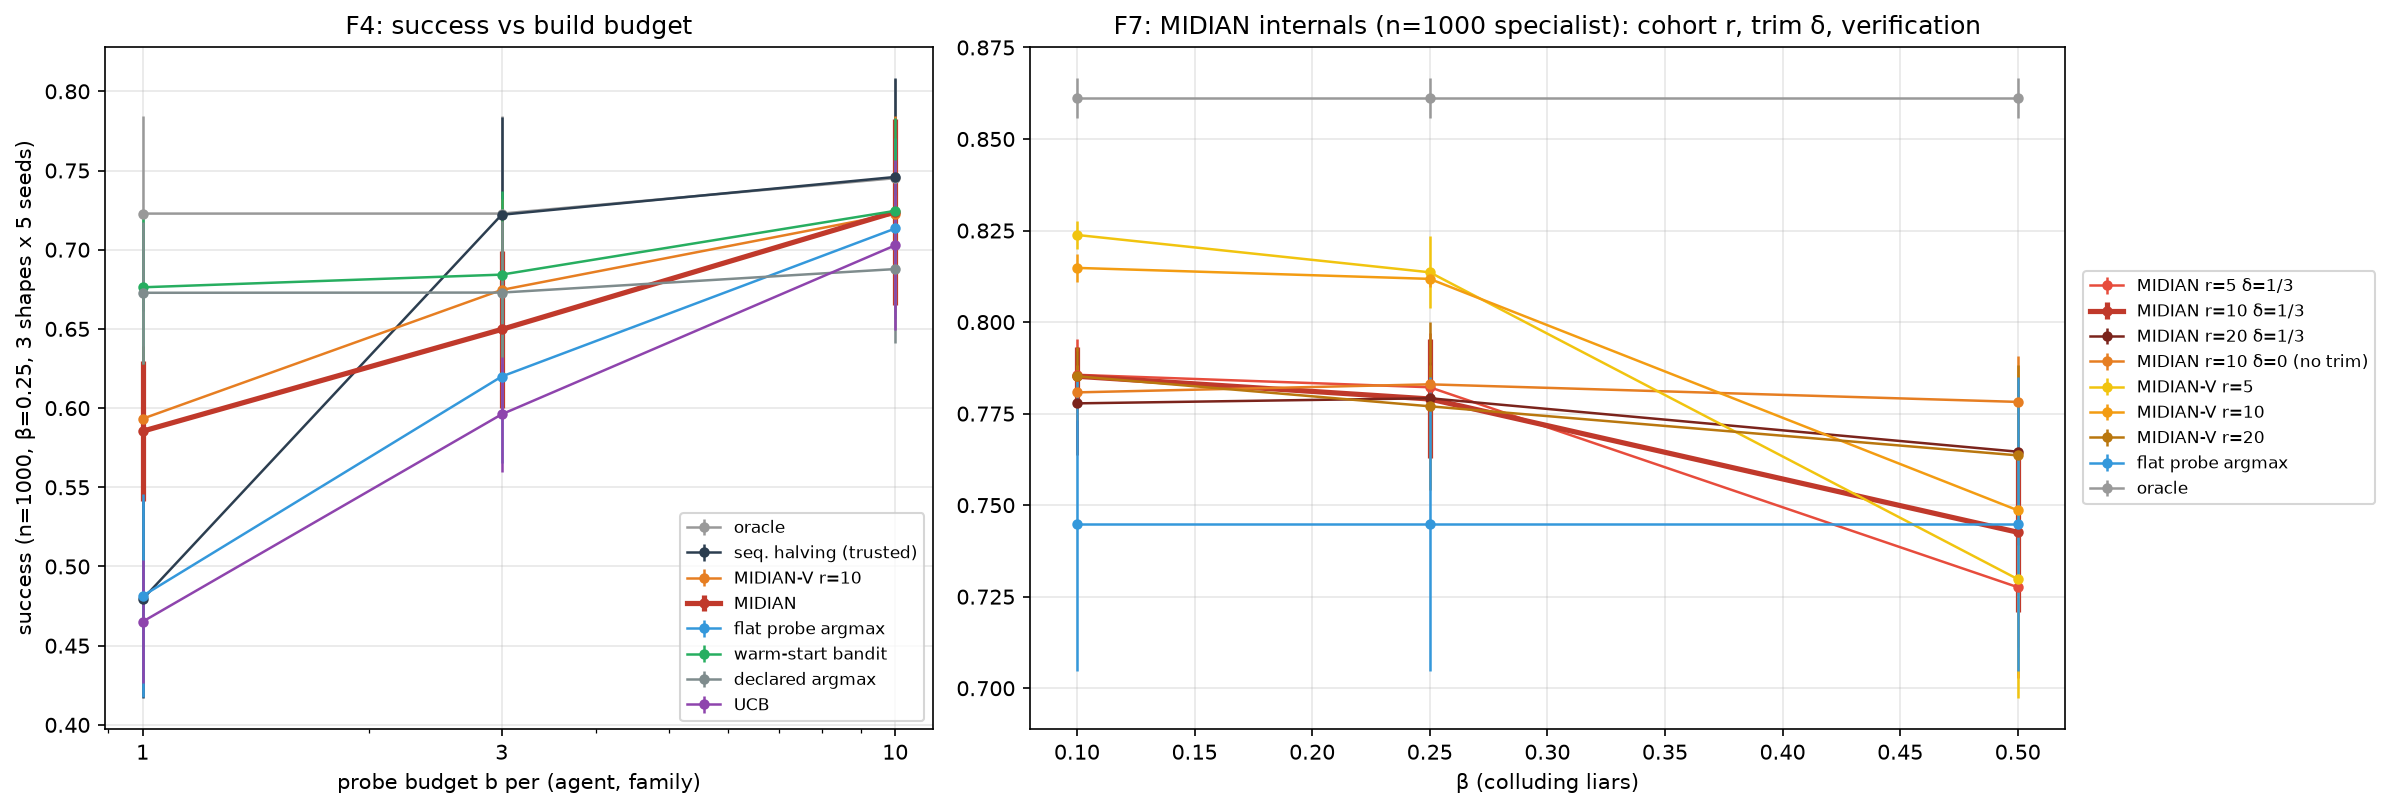
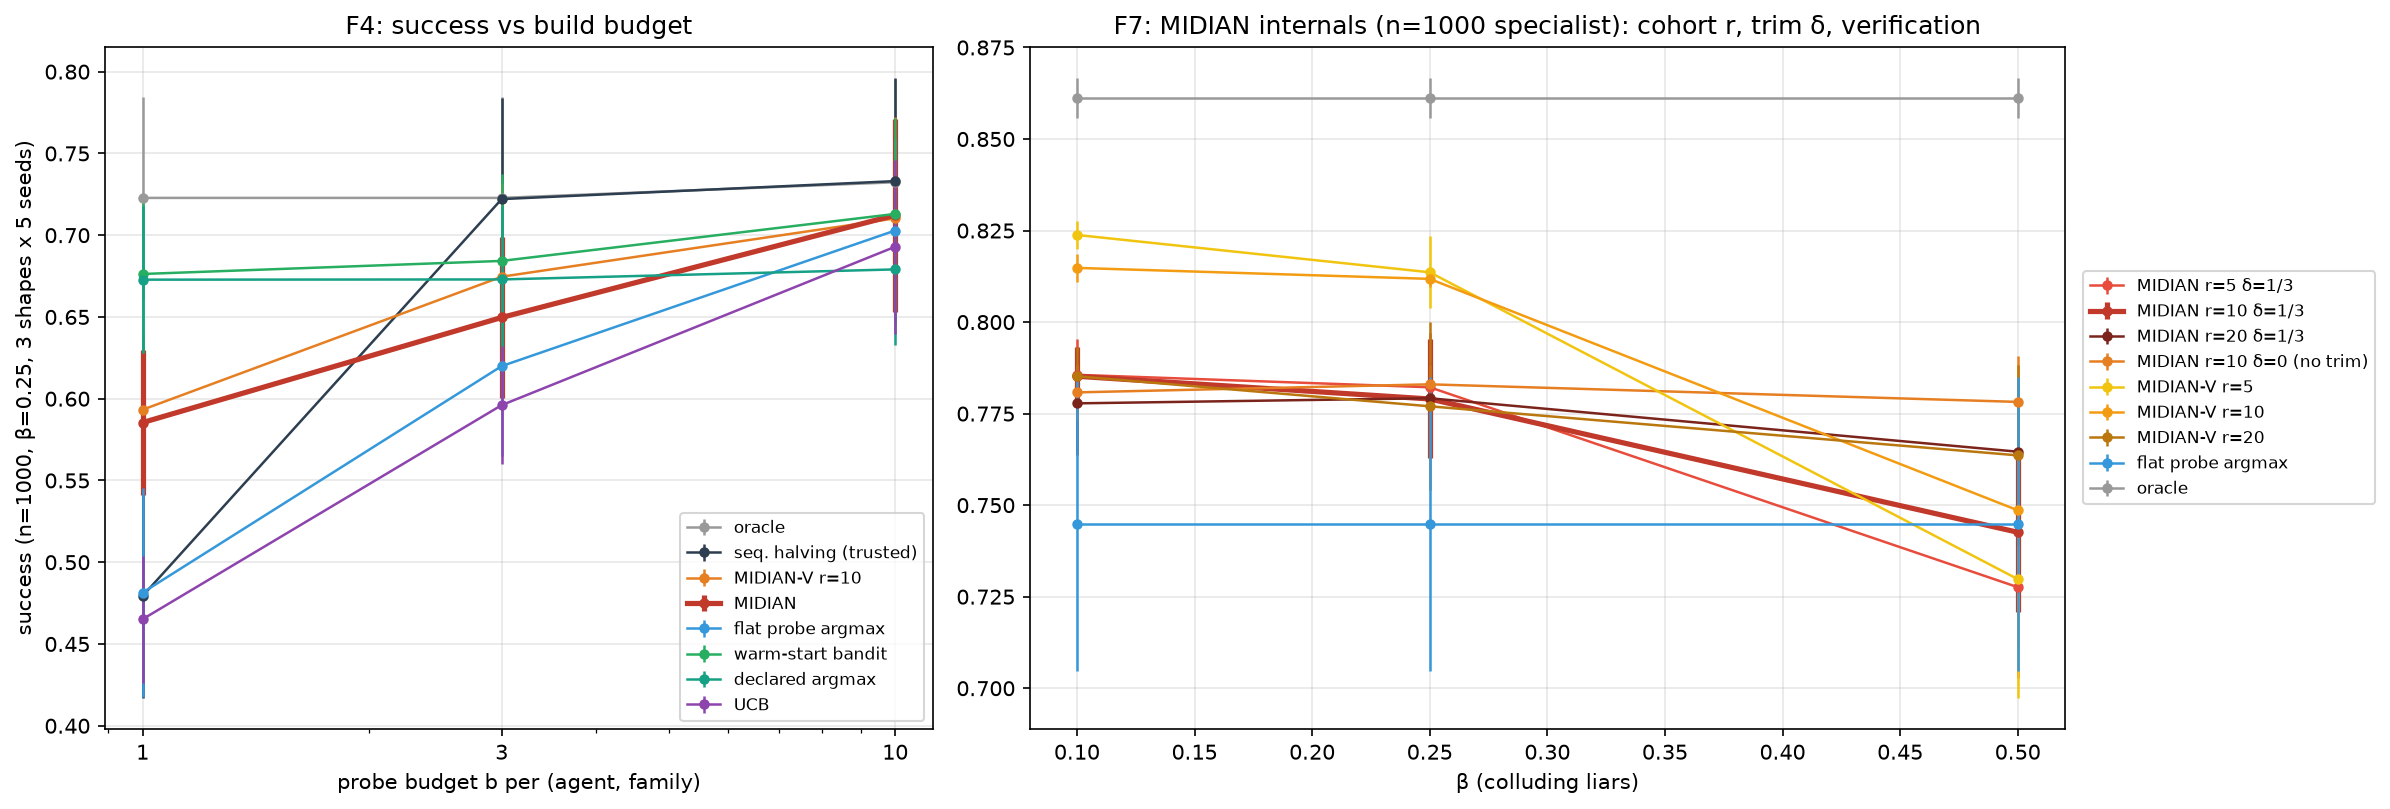
figures: distinct color for declared argmax in G

diff --git a/scripts/extra_figs.py b/scripts/extra_figs.py
@@ -103,7 +103,7 @@ db = load("budget_sweep"); ax = axes[0]
 keep_b = db.pivot_table(index=["dist", "seed", "b"], columns="m", values="success").dropna().index
 db = db.set_index(["dist", "seed", "b"]).loc[keep_b].reset_index()    # paired cells only
 for m, lab, c in [("oracle", "oracle", GRY), ("sequential_halving", "seq. halving (trusted)", "#2c3e50"), ("midian{V}", "MIDIAN-V r=10", ORG), ("midian", "MIDIAN", RED), ("flat_probe_argmax", "flat probe argmax", BLU),
-                  ("warm_start_bandit", "warm-start bandit", "#27ae60"), ("declared_argmax", "declared argmax", "#7f8c8d"), ("ucb_per_family", "UCB", "#8e44ad")]:
+                  ("warm_start_bandit", "warm-start bandit", "#27ae60"), ("declared_argmax", "declared argmax", "#16a085"), ("ucb_per_family", "UCB", "#8e44ad")]:
     line(ax, db[db.m == m].groupby("b").success, label=lab, color=c, lw=2.5 if m == "midian" else 1.2)
 ax.set_xscale("log"); ax.set_xticks([1, 3, 10]); ax.set_xticklabels(["1", "3", "10"]); ax.set_xlabel("probe budget b per (agent, family)"); ax.set_ylabel("success (n=1000, β=0.25, 3 shapes x 5 seeds)")
 ax.set_title("F4: success vs build budget"); ax.grid(alpha=.3); ax.legend(fontsize=8, loc="lower right")
